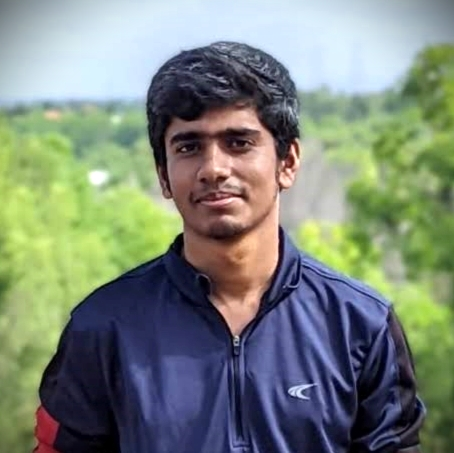
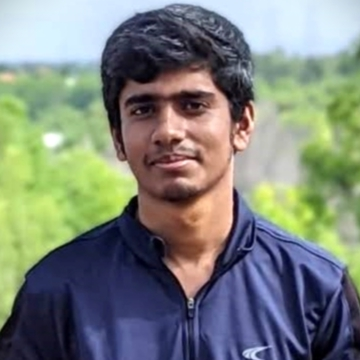
modified:   about/index.html 	modified:   assets/images/profile.jpg 	deleted:    assets/images/profile2.jpg

diff --git a/about/index.html b/about/index.html
@@ -6,7 +6,7 @@ title: About
 <div style="text-align: justify">
 	<h1>Hi there, I'm Navadeep!</h1>
 	<p>
-	I'm an Electrical Engineering graduate from <a href="https://www.msruas.ac.in/">Ramaiah University of Applied Sciences</a>, Bengaluru currently working in electronic design domain.
+	I'm an Electrical Engineering graduate from <a href="https://www.msruas.ac.in/">Ramaiah University of Applied Sciences</a>, Bengaluru currently working in the electronic design domain.
 	</p>
 
 	<p>I'm passionate about technology and research with major interests in Embedded Systems, Circuit Design, Analog and Power Electronics. Applying these, I like designing, 
